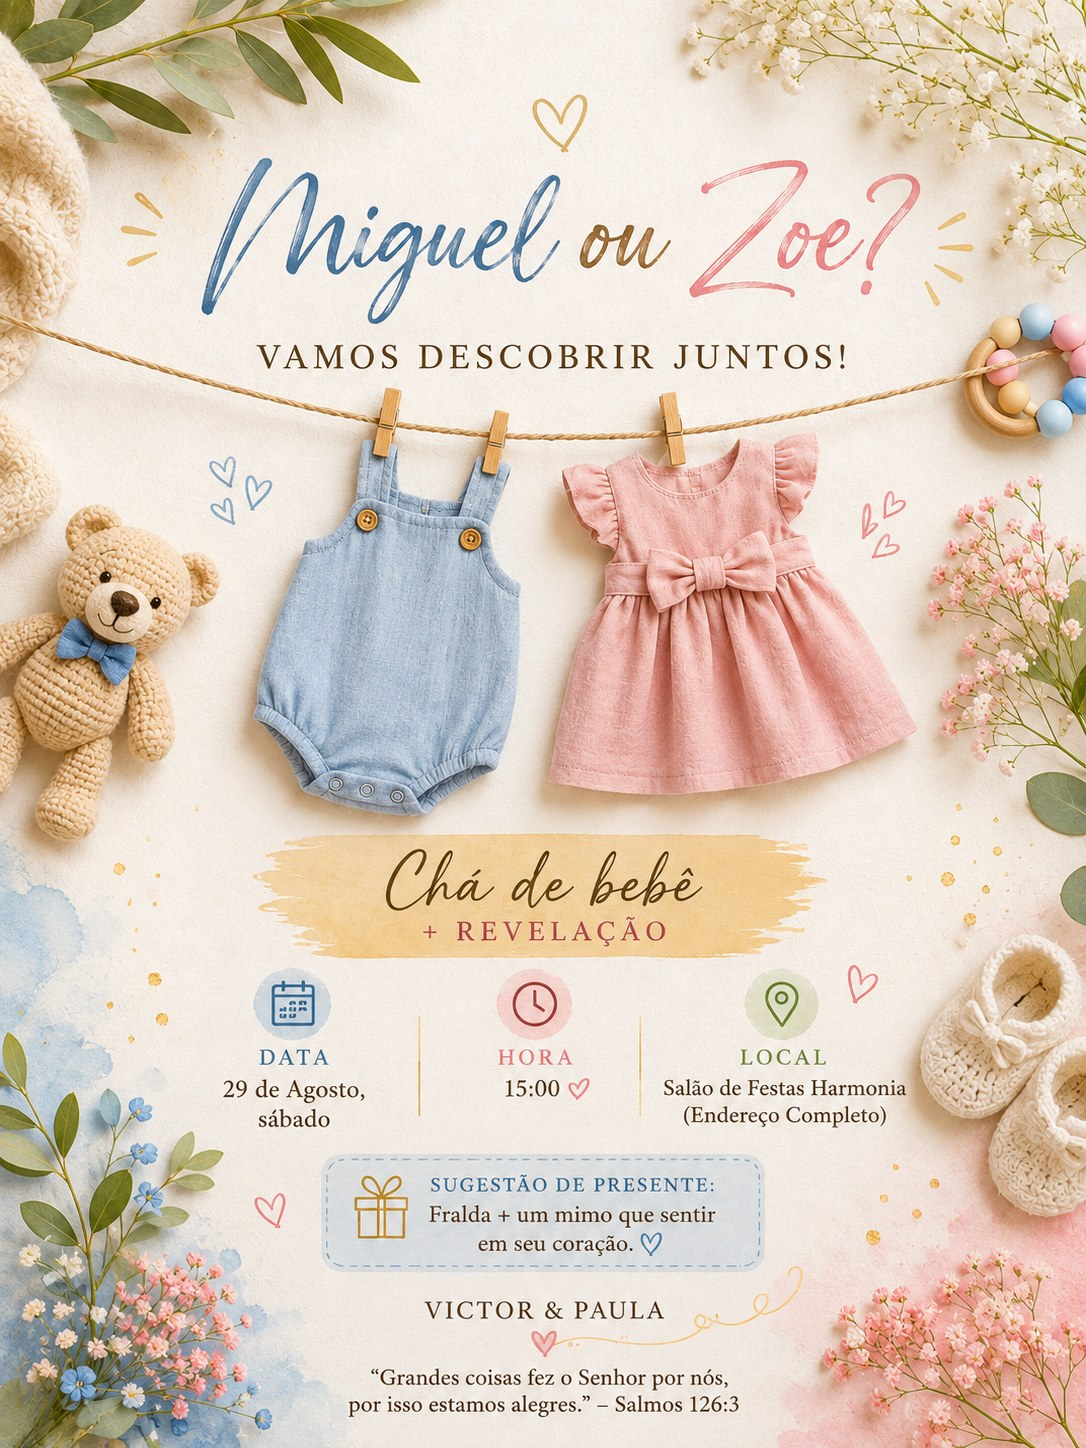
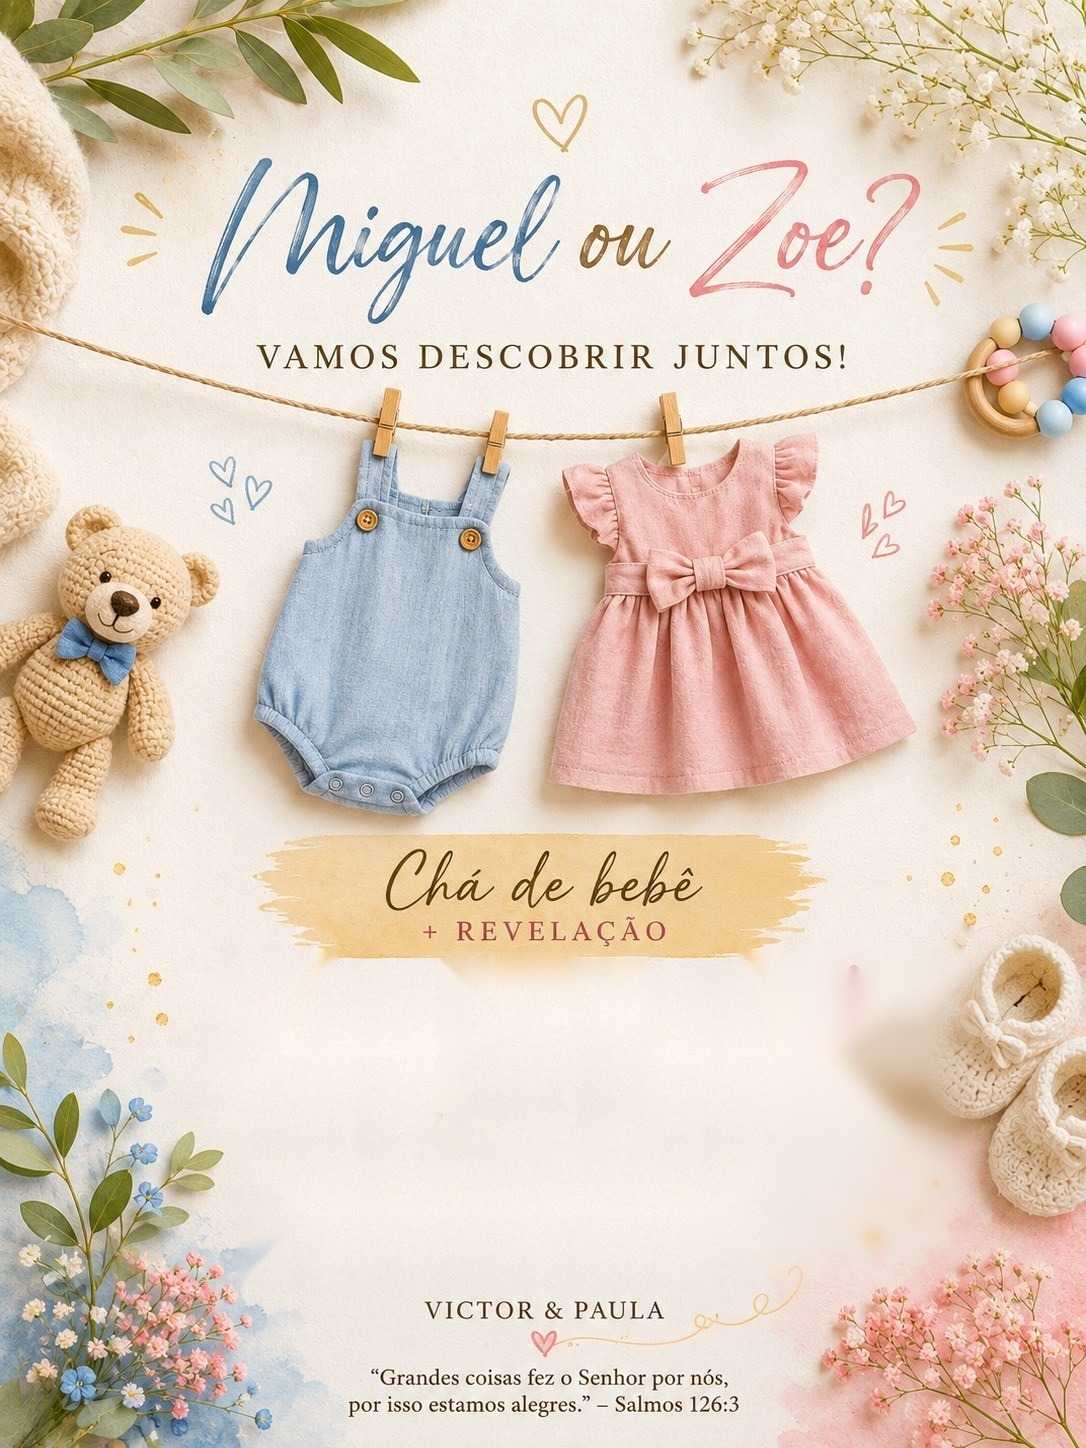
Adiciona lista de presentes e remove bloco de informações do convite
Nova seção de lista de presentes: cartões minimalistas em cores
neutras, sem preços, com reserva de um presente por pessoa/família
via WhatsApp. Convite editado digitalmente para remover o bloco
central de data/hora/local e sugestão de presente.

Claude-Session: https://claude.ai/code/session_01D4rNW7hyWJoA1w1KjuP9n2

Changed region(s): [[0.2127, 0.6526, 0.8812, 0.9012], [0.7901, 0.8391, 0.8204, 0.8702], [0.2127, 0.8391, 0.2431, 0.8702]]

diff --git a/cha-revelacao/index.html b/cha-revelacao/index.html
@@ -271,26 +271,83 @@
     to{transform:translateY(105vh) rotate(720deg);opacity:.9;}
   }
 
-  /* ===== Presente ===== */
+  /* ===== Lista de presentes ===== */
   .gift__img{
     width:min(300px,64vw);
     margin:0 auto 8px;
     -webkit-mask-image:radial-gradient(ellipse 74% 74% at center, #000 58%, transparent 94%);
     mask-image:radial-gradient(ellipse 74% 74% at center, #000 58%, transparent 94%);
   }
-  .gift__text{
-    font-family:var(--font-serif);
-    font-size:clamp(1.4rem,3vw,1.7rem);
-    font-weight:500;
-    max-width:460px;
-    margin:0 auto;
-    line-height:1.45;
+  .container--wide{max-width:1000px;margin:0 auto;padding:0 28px;}
+  .gifts{
+    display:grid;
+    grid-template-columns:repeat(auto-fill,minmax(212px,1fr));
+    gap:14px;
+    text-align:left;
   }
-  .gift__note{
-    font-size:.82rem;font-weight:400;
-    letter-spacing:.24em;text-transform:uppercase;
+  .gift-card{
+    background:#fffdf9;
+    border:1px solid var(--hairline);
+    border-radius:4px;
+    padding:22px 20px 20px;
+    display:flex;flex-direction:column;gap:4px;
+    transition:border-color .25s ease, transform .25s ease;
+  }
+  .gift-card:hover{border-color:var(--gold);transform:translateY(-2px);}
+  .gift-card__name{
+    font-family:var(--font-serif);
+    font-size:1.22rem;font-weight:600;
+    line-height:1.25;
+  }
+  .gift-card__note{
+    font-size:.78rem;font-weight:400;
     color:var(--ink-soft);
-    margin-top:18px;
+    min-height:1.4em;
+  }
+  .gift-card__btn{
+    margin-top:14px;
+    align-self:flex-start;
+    background:transparent;
+    border:1px solid var(--ink);
+    border-radius:999px;
+    padding:8px 20px;
+    font-family:var(--font-body);
+    font-size:.68rem;font-weight:500;
+    letter-spacing:.22em;text-transform:uppercase;
+    color:var(--ink);
+    cursor:pointer;
+    transition:background .25s ease,color .25s ease;
+  }
+  .gift-card__btn:hover{background:var(--ink);color:var(--paper);}
+  .gift-card.is-taken{
+    background:#f3f0e6;
+    border-color:#ddd6c2;
+  }
+  .gift-card.is-taken:hover{transform:none;border-color:#ddd6c2;}
+  .gift-card.is-taken .gift-card__name{color:var(--ink-soft);}
+  .gift-card.is-taken .gift-card__btn{
+    border-color:transparent;
+    background:transparent;
+    color:var(--gold);
+    padding-left:0;
+    cursor:default;
+  }
+  .gift-card.is-taken .gift-card__btn:hover{background:transparent;color:var(--gold);}
+  .gift-card__undo{
+    background:none;border:none;cursor:pointer;
+    align-self:flex-start;
+    font-family:var(--font-body);
+    font-size:.64rem;font-weight:400;
+    letter-spacing:.14em;text-transform:uppercase;
+    color:var(--ink-soft);
+    text-decoration:underline;
+    padding:4px 0 0;
+  }
+  .gifts-note{
+    max-width:540px;
+    margin:36px auto 0;
+    font-size:.84rem;
+    color:var(--ink-soft);
   }
 
   /* ===== Convite ===== */
@@ -433,13 +490,17 @@
     </div>
   </section>
 
-  <!-- ===== Presente ===== -->
+  <!-- ===== Lista de presentes ===== -->
   <section class="section" id="presente">
     <div class="container">
       <img class="gift__img reveal" src="assets/ursinho.jpg" alt="Ilustração em aquarela de um ursinho de crochê com gravata azul ao lado de sapatinhos de bebê">
-      <span class="kicker reveal">Sugestão de presente</span>
-      <p class="gift__text reveal">Fralda + um mimo que sentir em seu coração.</p>
-      <p class="gift__note reveal">O que importa mesmo é a sua presença</p>
+      <span class="kicker reveal">Com carinho</span>
+      <h2 class="section-title reveal">Lista de presentes</h2>
+      <p class="lead reveal">Escolha o que você quer trazer — cada presente pode ser escolhido por apenas uma pessoa ou família. E, junto, um mimo que sentir em seu coração.</p>
+    </div>
+    <div class="container--wide">
+      <div class="gifts reveal" id="gifts"></div>
+      <p class="gifts-note reveal">Ao escolher, você confirma pelo WhatsApp e o presente fica reservado no seu nome. O que importa mesmo é a sua presença.</p>
     </div>
   </section>
 
@@ -544,6 +605,74 @@
     const salvo = localStorage.getItem('palpite-bebe');
     if (salvo && frases[salvo]) escolher(salvo, false);
   } catch(e) {}
+
+  // Lista de presentes — 1 pessoa/família por presente
+  const presentes = [
+    { id: 'fralda-rn',   nome: 'Fralda RN',            nota: 'recém-nascido' },
+    { id: 'fralda-p1',   nome: 'Fralda P',             nota: 'cota 1' },
+    { id: 'fralda-p2',   nome: 'Fralda P',             nota: 'cota 2' },
+    { id: 'fralda-m1',   nome: 'Fralda M',             nota: 'cota 1' },
+    { id: 'fralda-m2',   nome: 'Fralda M',             nota: 'cota 2' },
+    { id: 'fralda-m3',   nome: 'Fralda M',             nota: 'cota 3' },
+    { id: 'fralda-g1',   nome: 'Fralda G',             nota: 'cota 1' },
+    { id: 'fralda-g2',   nome: 'Fralda G',             nota: 'cota 2' },
+    { id: 'lencos',      nome: 'Lenços umedecidos',    nota: 'kit com 3 ou mais' },
+    { id: 'pomada',      nome: 'Pomada para assaduras', nota: '' },
+    { id: 'sabonete',    nome: 'Sabonete líquido',     nota: 'neutro, de bebê' },
+    { id: 'kit-higiene', nome: 'Kit higiene',          nota: 'escova, pente e tesourinha' },
+    { id: 'manta',       nome: 'Manta de algodão',     nota: 'tom neutro' },
+    { id: 'toalha',      nome: 'Toalha com capuz',     nota: 'tom neutro' },
+    { id: 'bodies',      nome: 'Kit bodies',           nota: 'RN a P, cores neutras' },
+    { id: 'naninha',     nome: 'Naninha',              nota: '' }
+  ];
+  const WHATS = 'https://wa.me/818058298903';
+  const giftsEl = document.getElementById('gifts');
+  const lerReservas = () => {
+    try { return JSON.parse(localStorage.getItem('presentes-reservados') || '{}'); }
+    catch(e) { return {}; }
+  };
+  const gravarReservas = (r) => {
+    try { localStorage.setItem('presentes-reservados', JSON.stringify(r)); } catch(e) {}
+  };
+  function renderGifts(){
+    const reservas = lerReservas();
+    giftsEl.innerHTML = '';
+    presentes.forEach(p => {
+      const quem = reservas[p.id];
+      const card = document.createElement('div');
+      card.className = 'gift-card' + (quem ? ' is-taken' : '');
+      const rotulo = p.nota ? p.nome + ' · ' + p.nota : p.nome;
+      card.innerHTML =
+        '<span class="gift-card__name">' + p.nome + '</span>' +
+        '<span class="gift-card__note">' + (p.nota || '&nbsp;') + '</span>' +
+        (quem
+          ? '<button class="gift-card__btn" type="button" disabled>Escolhido ✓</button>' +
+            '<button class="gift-card__undo" type="button" data-undo="' + p.id + '">desfazer</button>'
+          : '<button class="gift-card__btn" type="button" data-id="' + p.id + '" data-rotulo="' + rotulo + '">Escolher</button>');
+      giftsEl.appendChild(card);
+    });
+  }
+  giftsEl.addEventListener('click', (e) => {
+    const btn = e.target.closest('button');
+    if (!btn) return;
+    if (btn.dataset.undo) {
+      const reservas = lerReservas();
+      delete reservas[btn.dataset.undo];
+      gravarReservas(reservas);
+      renderGifts();
+      return;
+    }
+    if (!btn.dataset.id) return;
+    const nome = prompt('Seu nome (ou da família) para reservar "' + btn.dataset.rotulo + '":');
+    if (!nome || !nome.trim()) return;
+    const reservas = lerReservas();
+    reservas[btn.dataset.id] = nome.trim();
+    gravarReservas(reservas);
+    renderGifts();
+    const msg = 'Olá! Quero reservar o presente "' + btn.dataset.rotulo + '" para o chá de bebê do dia 29/08. — ' + nome.trim();
+    window.open(WHATS + '?text=' + encodeURIComponent(msg), '_blank', 'noopener');
+  });
+  renderGifts();
 
   // Animações de entrada
   const observer = new IntersectionObserver((entries) => {
